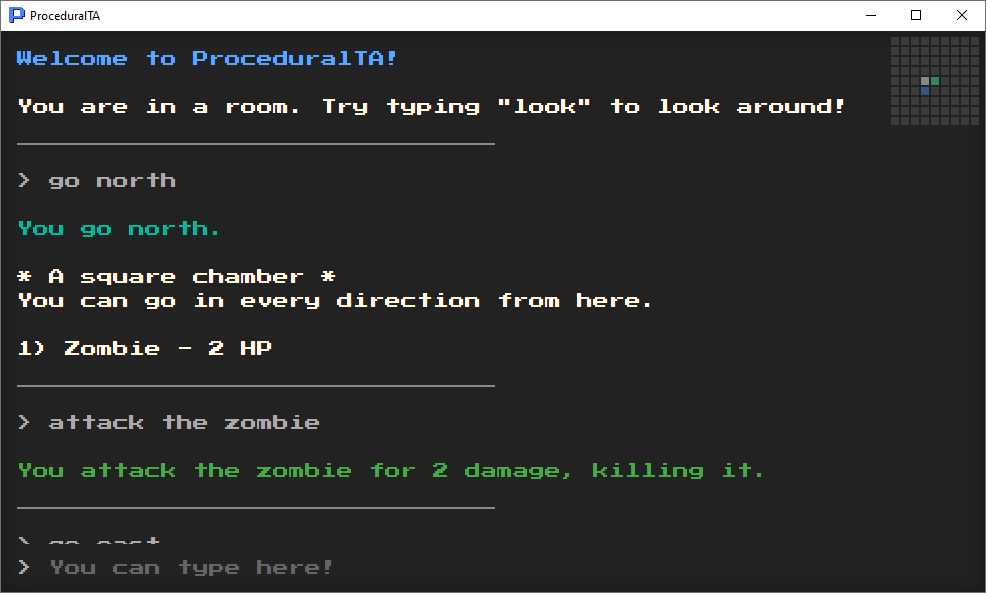
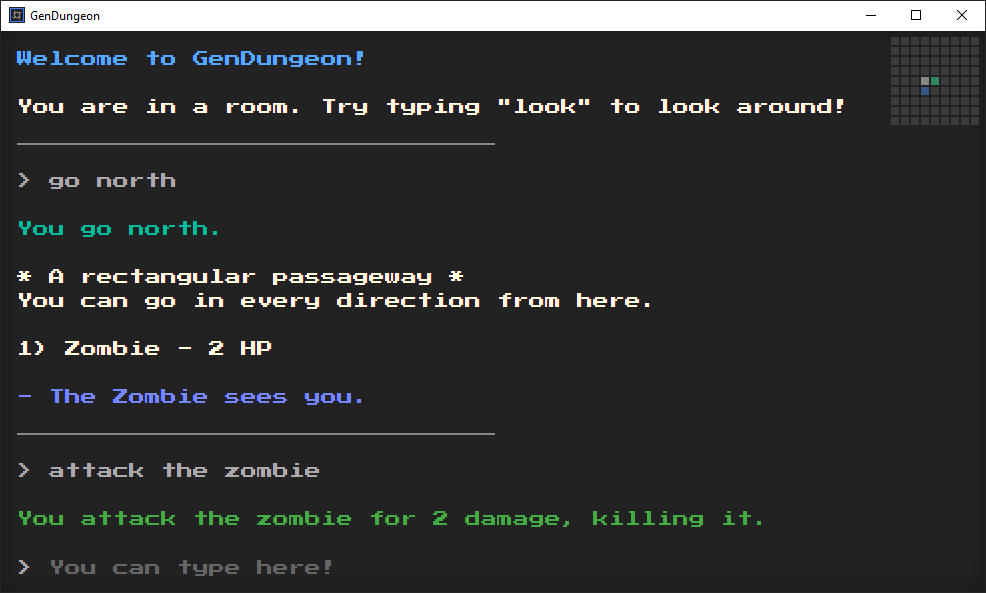
Replace comments with copyright tag, refactor, updates

diff --git a/app/js/modules/InputHandler.js b/app/js/modules/InputHandler.js
@@ -1,4 +1,6 @@
-// ProceduralTA is licensed under GNU General Public License v3.0.
+/*
+ * GenDungeon is licensed under GNU General Public License v3.0.
+ */
 
 import game, {isElectron} from '../game.js';
 import {GameLog, logTypes} from './GameLog.js';
@@ -21,7 +23,7 @@ export default function InputHandler(input) {
     const goAliases = 'go,move,run,sprint,walk,dash,slide';
     const restartAliases = 'restart,reset,newgame';
     const helpAliases = 'help,?,what';
-    const creditsAliases = 'credit,credits,proceduralta,julian,author,about';
+    const creditsAliases = 'credit,credits,gendungeon,julian,author,about';
     const infoAliases = 'info,i,me,myself,player,user,information,hp,stats,health';
     const backAliases = 'back,b,backwards,previous';
     const northAliases = 'north,n,northward,northern,up,upward,upwards';
@@ -74,9 +76,9 @@ export default function InputHandler(input) {
 
     // credits
     if (Verb.check(creditsAliases, inputArray, () => {
-        GameLog.addMessage(`ProceduralTA is an open source text adventure.
+        GameLog.addMessage(`GenDungeon is an open source text adventure.
         
-        https://github.com/jlachniet/ProceduralTA`, logTypes.GAME);
+        https://github.com/jlachniet/GenDungeon`, logTypes.GAME);
     }).matched) return false;
 
     // info

diff --git a/app/index.html b/app/index.html
@@ -1,10 +1,12 @@
-<!-- ProceduralTA is licensed under GNU General Public License v3.0. -->
+<!--
+  ~ GenDungeon is licensed under GNU General Public License v3.0.
+  -->
 
 <!DOCTYPE html>
 <html lang="en-US">
 <head>
     <meta charset="utf-8">
-    <title>ProceduralTA</title>
+    <title>GenDungeon</title>
     <link rel="stylesheet" href="css/styles.css">
     <meta name="viewport" content="width=device-width, initial-scale=1">
     <meta http-equiv="Content-Security-Policy" content="script-src 'self' 'unsafe-inline'">
@@ -13,7 +15,8 @@
 
 <div id="log"></div>
 <div id="input-prefix">&gt;</div>
-<div id="input-wrapper"><input id="input-box" type="text" placeholder="You can type here!" autocomplete="off"></div>
+<div id="input-wrapper"><!--suppress HtmlFormInputWithoutLabel -->
+    <input id="input-box" type="text" placeholder="You can type here!" autocomplete="off"></div>
 <table id="minimap"></table>
 
 <script>

diff --git a/app/js/modules/GameLog.js b/app/js/modules/GameLog.js
@@ -1,4 +1,6 @@
-// ProceduralTA is licensed under GNU General Public License v3.0.
+/*
+ * GenDungeon is licensed under GNU General Public License v3.0.
+ */
 
 export const logTypes = {
     ALERT: 'msg-alert',
@@ -18,7 +20,7 @@ export class GameLog {
     static init() {
         this.logElement = $('#log');
         this.logElement.empty();
-        this.addMessage('Welcome to ProceduralTA!', logTypes.SYSTEM);
+        this.addMessage('Welcome to GenDungeon!', logTypes.SYSTEM);
         this.addMessage('You are in a room. Try typing "look" to look around!', logTypes.GAME);
     }
 

diff --git a/index.js b/index.js
@@ -1,4 +1,6 @@
-// ProceduralTA is licensed under GNU General Public License v3.0.
+/*
+ * GenDungeon is licensed under GNU General Public License v3.0.
+ */
 
 'use strict';
 
@@ -53,7 +55,7 @@ function newWindow() {
     if (process.argv.includes('test')) {
         window.openDevTools();
     }
-    window.setTitle('ProceduralTA');
+    window.setTitle('GenDungeon');
     window.removeMenu();
     window.loadFile('app/index.html').then();
 }

diff --git a/app/js/modules/Room.js b/app/js/modules/Room.js
@@ -1,4 +1,10 @@
-// ProceduralTA is licensed under GNU General Public License v3.0.
+/*
+ * GenDungeon is licensed under GNU General Public License v3.0.
+ */
+
+/*
+ * GenDungeon is licensed under GNU General Public License v3.0.
+ */
 
 import Food from './things/Food.js';
 import game, {getRandomElement, getRandInt} from '../game.js';

diff --git a/app/js/game.js b/app/js/game.js
@@ -1,4 +1,6 @@
-// ProceduralTA is licensed under GNU General Public License v3.0.
+/*
+ * GenDungeon is licensed under GNU General Public License v3.0.
+ */
 
 import {GameLog, logTypes} from './modules/GameLog.js';
 import GameSave from './modules/GameSave.js';

diff --git a/app/js/modules/things/Monster.js b/app/js/modules/things/Monster.js
@@ -1,4 +1,6 @@
-// ProceduralTA is licensed under GNU General Public License v3.0.
+/*
+ * GenDungeon is licensed under GNU General Public License v3.0.
+ */
 
 import game, {getRandInt} from '../../game.js';
 import {GameLog, logTypes} from '../GameLog.js';

diff --git a/app/js/modules/things/Food.js b/app/js/modules/things/Food.js
@@ -1,4 +1,6 @@
-// ProceduralTA is licensed under GNU General Public License v3.0.
+/*
+ * GenDungeon is licensed under GNU General Public License v3.0.
+ */
 
 import {getRandInt, getRandomElement} from '../../game.js';
 import Thing from './Thing.js';

diff --git a/app/js/modules/things/Weapon.js b/app/js/modules/things/Weapon.js
@@ -1,4 +1,6 @@
-// ProceduralTA is licensed under GNU General Public License v3.0.
+/*
+ * GenDungeon is licensed under GNU General Public License v3.0.
+ */
 
 import {getRandInt, getRandomElement} from '../../game.js';
 import Thing from './Thing.js';

diff --git a/app/js/modules/Player.js b/app/js/modules/Player.js
@@ -1,4 +1,6 @@
-// ProceduralTA is licensed under GNU General Public License v3.0.
+/*
+ * GenDungeon is licensed under GNU General Public License v3.0.
+ */
 
 import game from '../game.js';
 import {GameLog, logTypes} from './GameLog.js';

diff --git a/app/js/preload.js b/app/js/preload.js
@@ -1,4 +1,6 @@
-// ProceduralTA is licensed under GNU General Public License v3.0.
+/*
+ * GenDungeon is licensed under GNU General Public License v3.0.
+ */
 
 const {contextBridge, ipcRenderer} = require('electron');
 

diff --git a/app/js/modules/Verb.js b/app/js/modules/Verb.js
@@ -1,4 +1,6 @@
-// ProceduralTA is licensed under GNU General Public License v3.0.
+/*
+ * GenDungeon is licensed under GNU General Public License v3.0.
+ */
 
 /**
  * A handler for verbs used by the input parser.
